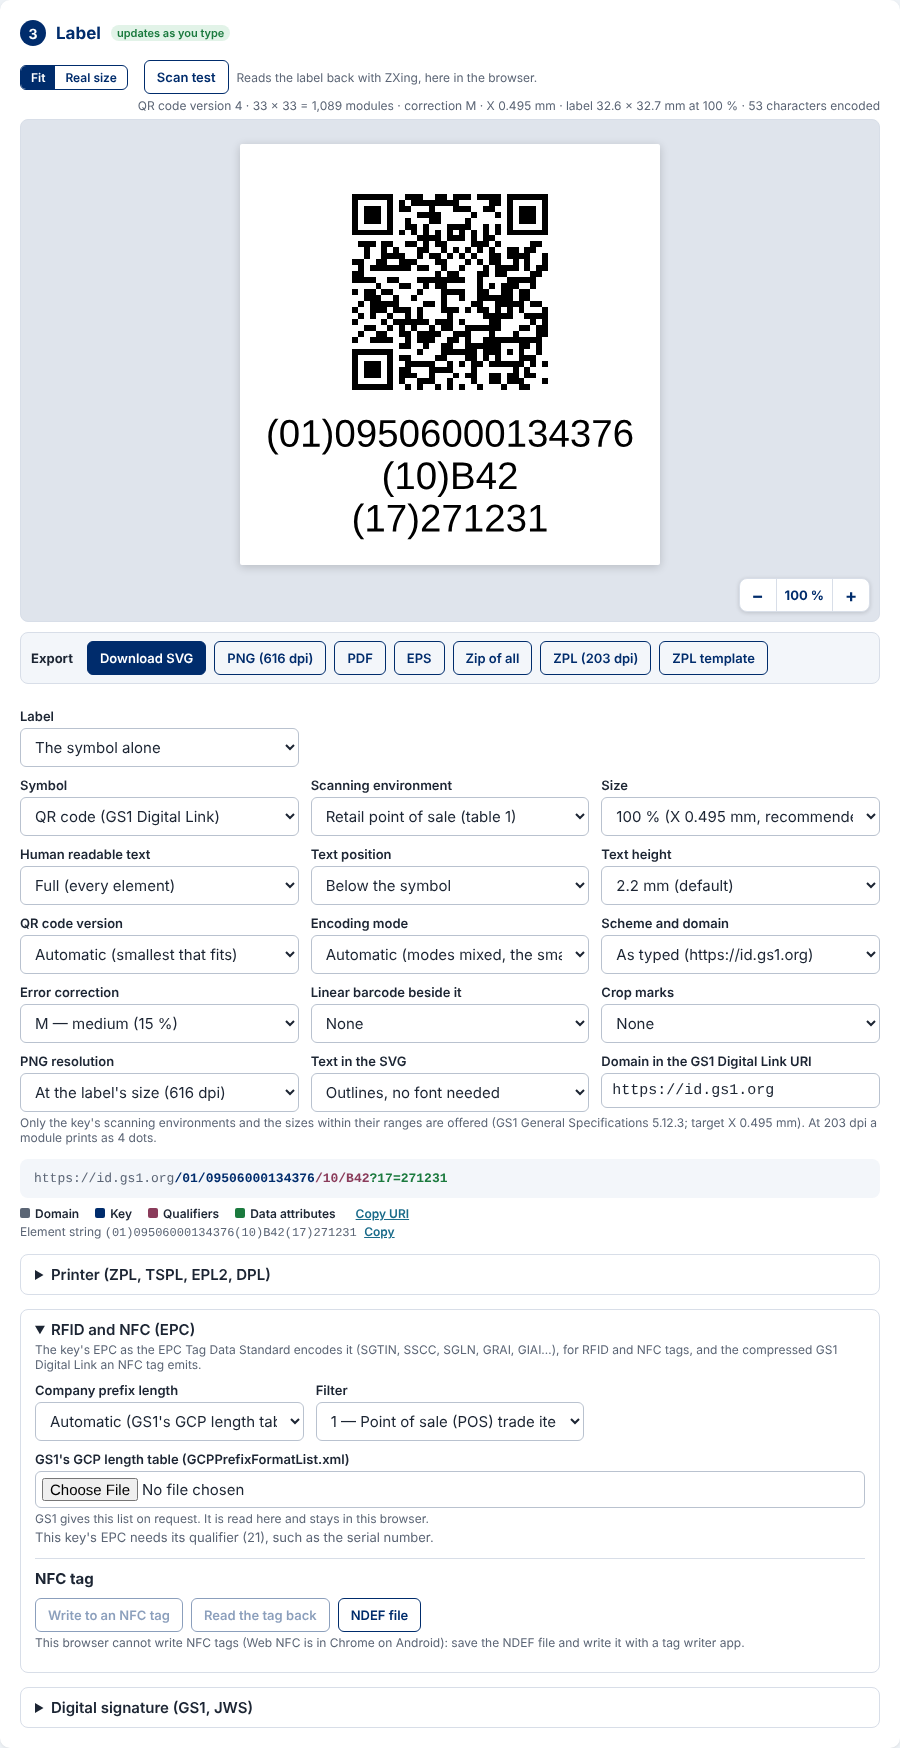
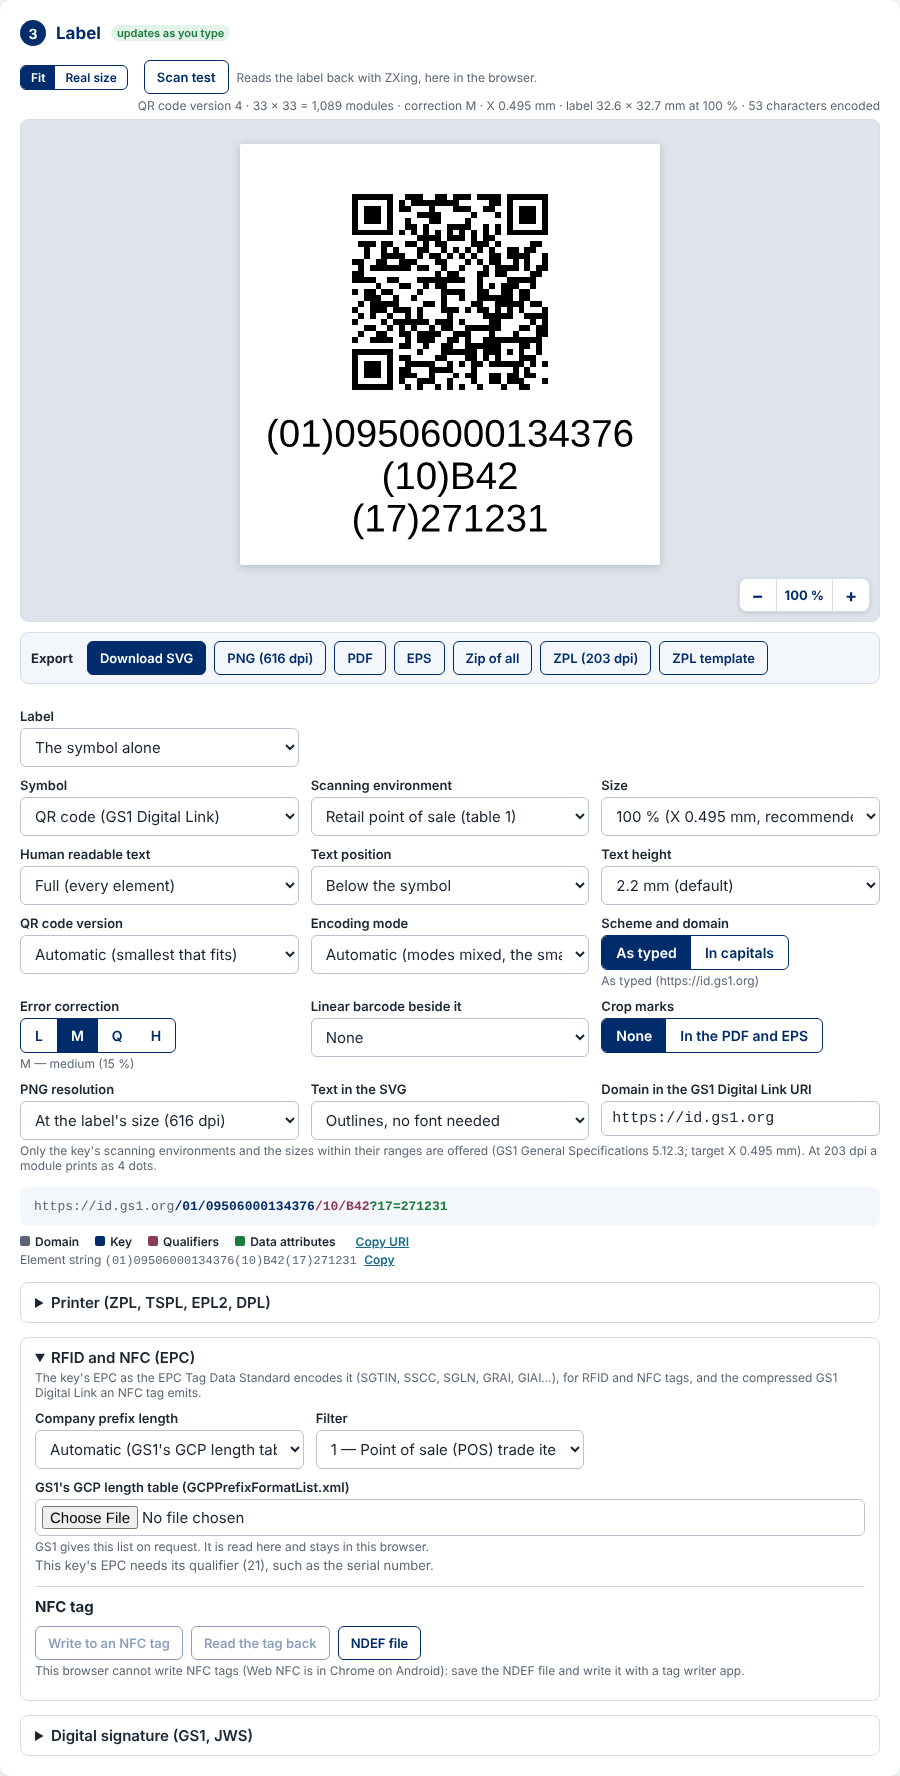
web, docs: the label's short choices as rows of buttons; sliders assessed and left out (1.10)
The owner asked whether the label's options with few choices should be sliders instead of lists, after a usability
assessment. Mock-ups in the real application (A: rows of buttons; B: sliders) showed that a slider suits an ordered
scale of evenly spaced values only: the sizes (80 to 200 %), text heights and bar width reductions are not evenly spaced
and change with the table, the error correction levels have four named steps, and the other short choices (text,
scheme and domain, crop marks, text in the SVG) have no order at all; the sliders also cut the options' names to fit.
The gain the request looks for, every option in view and one press to change it, comes from buttons instead.

Error correction (L, M, Q, H), Scheme and domain (As typed, In capitals) and Crop marks (None, In the PDF and EPS),
which fit one row on a computer's narrow column and on a phone, are now a Segmented control: a radio group whose
chosen option Tab reaches and the arrow keys move, the chosen option's full text said under it. The choices with longer
names or more options stay lists (Human readable text and Text in the SVG would wrap on a computer). Three short labels
in the five catalogues.

Tests: the crop marks test chooses them by their button and reads the chosen one in Portuguese; the QR modes test
chooses In capitals by its button, and presses H, then the left arrow to Q, the caption following and the focus kept.
[…]

diff --git a/apps/web/e2e/editor.spec.ts b/apps/web/e2e/editor.spec.ts
@@ -458,8 +458,9 @@ test("crop marks around the label in the PDF, the EPS and the zip, and around ev
   expect(plain).not.toContain("/TrimBox");
   const [, , w, h] = box(plain, "/MediaBox");
   await on(page, "label");
-  await expect(page.locator("#opt-crop")).toHaveValue("none");
-  await page.selectOption("#opt-crop", "marks");
+  await expect(page.locator("#opt-crop [aria-checked=true]")).toHaveText("None");
+  await page.locator("#opt-crop").getByRole("radio", { name: "In the PDF and EPS" }).click();
+  await expect(page.locator(".seg-field:has(#opt-crop) .hint")).toHaveText("In the PDF and EPS, on a 10 mm margin");
   await on(page, "export");
   const marked = readFileSync(await download(/^PDF$/)).toString("latin1");
   const media = box(marked, "/MediaBox");
@@ -480,8 +481,9 @@ test("crop marks around the label in the PDF, the EPS and the zip, and around ev
   await on(page, "more");
   await page.selectOption("#language", "pt-BR");
   await on(page, "label");
-  await expect(page.locator("label[for=opt-crop]")).toHaveText("Marcas de corte");
-  await expect(page.locator("#opt-crop option:checked")).toHaveText("No PDF e no EPS, numa margem de 10 mm");
+  await expect(page.locator("#opt-crop-label")).toHaveText("Marcas de corte");
+  await expect(page.getByRole("radiogroup", { name: "Marcas de corte" }).getByRole("radio", { checked: true })).toHaveText("No PDF e no EPS");
+  await expect(page.locator(".seg-field:has(#opt-crop) .hint")).toHaveText("No PDF e no EPS, numa margem de 10 mm");
   // In bulk: every page of the PDF of a label a page.
   await on(page, "data");
   await page.getByRole("button", { name: "Em lote" }).click();
@@ -1186,7 +1188,7 @@ test("QR Code's encoding mode: alphanumeric with the domain in capitals, byte; e
   await on(page, "label");
   await page.selectOption("#opt-qr-mode", "alphanumeric");
   await expect(page.locator(".preview .error")).toContainText("alphanumeric mode cannot encode “h”");
-  await page.selectOption("#opt-qr-upper", "upper");
+  await page.getByRole("radiogroup", { name: "Scheme and domain" }).getByRole("radio", { name: "In capitals" }).click();
   await expect(page.locator(".preview .error")).toContainText("cannot encode “?”"); // the query string of (17)
   await on(page, "data");
   await page.locator(".attr").nth(1).getByRole("button", { name: "Remove attribute" }).click();
@@ -1201,6 +1203,19 @@ test("QR Code's encoding mode: alphanumeric with the domain in capitals, byte; e
   await on(page, "export");
   await page.getByRole("button", { name: "ZPL (203 dpi)" }).click();
   await expect(page.locator(".error.small")).toContainText("ZPL writes the QR code in the printer's automatic mode");
+  // The error correction as buttons in a row (the owner's request of 10 November 2026): a press, or the arrow keys on
+  // the chosen one, changes it; its full name said under them
+  await on(page, "label");
+  const levels = page.getByRole("radiogroup", { name: "Error correction" });
+  await expect(levels.getByRole("radio")).toHaveText(["L", "M", "Q", "H"]);
+  await expect(page.locator(".seg-field:has(#opt-ecl) .hint")).toHaveText("M — medium (15 %)");
+  await levels.getByRole("radio", { name: "H" }).click();
+  await expect(page.locator(".caption")).toContainText("correction H");
+  await levels.getByRole("radio", { checked: true }).press("ArrowLeft");
+  await expect(levels.getByRole("radio", { checked: true })).toHaveText("Q");
+  await expect(levels.getByRole("radio", { checked: true })).toBeFocused();
+  await expect(page.locator(".caption")).toContainText("correction Q");
+  await expect(page.locator(".seg-field:has(#opt-ecl) .hint")).toHaveText("Q — quartile (25 %)");
 });
 
 // Item 1.18 (mock-up A of two, 31 October 2026): a JWS of the code's data, a security marking's code read from the marking.

diff --git a/apps/web/src/LabelCard.tsx b/apps/web/src/LabelCard.tsx
@@ -29,6 +29,7 @@ import { keepGuides, keptGuides } from "./guides.ts";
 import { Calibration, keptScale, RealSizeView } from "./RealSize.tsx";
 import type { SymbolSizing } from "./resize.ts";
 import { scanSvg } from "./scan.ts";
+import { Segmented } from "./Segmented.tsx";
 import {
   BEARER_CHOICES,
   ENVIRONMENT_NAMES,
@@ -599,23 +600,23 @@ export function LabelCard({ children, generate, printer, printLanguage, settings
                       ))}
                     </select>
                   </div>
-                  <div>
-                    <label htmlFor="opt-qr-upper">{t("Scheme and domain")}</label>
-                    <select id="opt-qr-upper" value={s.qrUpperDomain ? "upper" : "as"} onChange={(e) => set("qrUpperDomain", e.target.value === "upper")}>
-                      <option value="as">{t("As typed (https://id.gs1.org)")}</option>
-                      <option value="upper">{t("In capitals (HTTPS://ID.GS1.ORG)")}</option>
-                    </select>
-                  </div>
-                  <div>
-                    <label htmlFor="opt-ecl">{t("Error correction")}</label>
-                    <select id="opt-ecl" value={s.error} onChange={(e) => set("error", e.target.value as ErrorLevel)}>
-                      {ERROR_LEVELS.map((level) => (
-                        <option key={level} value={level}>
-                          {t(ERROR_NAMES[level])}
-                        </option>
-                      ))}
-                    </select>
-                  </div>
+                  <Segmented
+                    id="opt-qr-upper"
+                    label={t("Scheme and domain")}
+                    value={s.qrUpperDomain ? "upper" : "as"}
+                    options={[
+                      { value: "as", text: t("As typed"), detail: t("As typed (https://id.gs1.org)") },
+                      { value: "upper", text: t("In capitals"), detail: t("In capitals (HTTPS://ID.GS1.ORG)") },
+                    ]}
+                    onChange={(value) => set("qrUpperDomain", value === "upper")}
+                  />
+                  <Segmented
+                    id="opt-ecl"
+                    label={t("Error correction")}
+                    value={s.error}
+                    options={ERROR_LEVELS.map((level) => ({ value: level, text: level.toUpperCase(), detail: t(ERROR_NAMES[level]) }))}
+                    onChange={(value) => set("error", value as ErrorLevel)}
+                  />
                 </>
               )}
               {(view.linearPossible || (view.guided && view.twoD && s.linear !== "none")) && (
@@ -663,13 +664,16 @@ export function LabelCard({ children, generate, printer, printLanguage, settings
                   </select>
                 </div>
               )}
-              <div>
-                <label htmlFor="opt-crop">{t("Crop marks")}</label>
-                <select id="opt-crop" value={s.cropMarks ? "marks" : "none"} onChange={(e) => set("cropMarks", e.target.value === "marks")}>
-                  <option value="none">{t("None")}</option>
-                  <option value="marks">{t("In the PDF and EPS, on a 10 mm margin")}</option>
-                </select>
-              </div>
+              <Segmented
+                id="opt-crop"
+                label={t("Crop marks")}
+                value={s.cropMarks ? "marks" : "none"}
+                options={[
+                  { value: "none", text: t("None") },
+                  { value: "marks", text: t("In the PDF and EPS"), detail: t("In the PDF and EPS, on a 10 mm margin") },
+                ]}
+                onChange={(value) => set("cropMarks", value === "marks")}
+              />
               <div>
                 <label htmlFor="opt-png">{t("PNG resolution")}</label>
                 <select

diff --git a/apps/web/src/Segmented.tsx b/apps/web/src/Segmented.tsx
@@ -1,0 +1,61 @@
+import { useRef, type KeyboardEvent } from "react";
+
+// A choice of two to four short options as buttons in a row (the owner's request of 10 November 2026, mock-up A of
+// two: B put sliders in their place, which suit an ordered scale only and cut the options' names): every option in
+// view and one press to change it, where a list needed two. A radio group for assistive technology: Tab reaches the
+// chosen option, the arrow keys move the choice. The chosen option's full text is said under it.
+
+export interface SegmentedOption<T extends string> {
+  value: T;
+  /** The button's text: a word or two. */
+  text: string;
+  /** The option's full text, said under the buttons once it is chosen and given to the button as its title. */
+  detail?: string;
+}
+
+interface Props<T extends string> {
+  id: string;
+  label: string;
+  value: T;
+  options: readonly SegmentedOption<T>[];
+  onChange: (value: T) => void;
+}
+
+export function Segmented<T extends string>({ id, label, value, options, onChange }: Props<T>) {
+  const group = useRef<HTMLDivElement>(null);
+  const chosen = options.find((option) => option.value === value);
+
+  const onKeyDown = (event: KeyboardEvent<HTMLButtonElement>, index: number) => {
+    const by = event.key === "ArrowRight" || event.key === "ArrowDown" ? 1 : event.key === "ArrowLeft" || event.key === "ArrowUp" ? -1 : 0;
+    if (!by) return;
+    event.preventDefault();
+    const next = (index + by + options.length) % options.length;
+    onChange(options[next]!.value);
+    group.current?.querySelectorAll<HTMLButtonElement>("button")[next]?.focus();
+  };
+
+  return (
+    <div className="seg-field">
+      <span className="seg-label" id={`${id}-label`}>
+        {label}
+      </span>
+      <div className="seg" role="radiogroup" id={id} aria-labelledby={`${id}-label`} ref={group}>
+        {options.map((option, index) => (
+          <button
+            key={option.value}
+            type="button"
+            role="radio"
+            aria-checked={option.value === value}
+            tabIndex={option.value === value ? 0 : -1}
+            title={option.detail}
+            onClick={() => onChange(option.value)}
+            onKeyDown={(event) => onKeyDown(event, index)}
+          >
+            {option.text}
+          </button>
+        ))}
+      </div>
+      {chosen?.detail && <div className="hint">{chosen.detail}</div>}
+    </div>
+  );
+}

diff --git a/apps/web/src/styles.css b/apps/web/src/styles.css
@@ -162,6 +162,12 @@ details.epc summary, details.sign summary, details.printer summary { font-weight
 .seg { display: inline-flex; border: 1.5px solid var(--navy); border-radius: 6px; overflow: hidden; }
 .seg button { border: 0; background: transparent; color: var(--navy); font: inherit; font-size: 12px; font-weight: 600; padding: 4px 10px; cursor: pointer; }
 .seg button[aria-pressed="true"] { background: var(--navy); color: var(--card); }
+/* A short choice among the label's options as buttons in a row (Segmented.tsx), as tall as a list beside it */
+.seg-label { display: block; font-size: 13px; font-weight: 600; margin: 10px 0 4px; }
+.seg-field .seg { display: flex; flex-wrap: wrap; width: max-content; max-width: 100%; }
+.seg-field .seg button { font-size: 14px; padding: 8px 14px; }
+.seg button[aria-checked="true"] { background: var(--navy); color: var(--card); }
+.seg-field .seg button:focus-visible { outline: 2px solid var(--focus, #1a73e8); outline-offset: -3px; }
 .real { display: grid; grid-template-columns: 18px auto; grid-template-rows: 18px auto; justify-content: start; overflow: auto; max-height: 70vh; background: #fff; border: 1px solid var(--line); border-radius: 8px; padding: 6px; }
 .real .symbol svg { width: 100%; height: 100%; display: block; }
 .ruler { display: block; stroke: #5b6575; fill: #5b6575; font-size: 8px; }

diff --git a/docs/user-guide.md b/docs/user-guide.md
@@ -383,7 +383,8 @@ or QR code is refused there (Labelize does not turn them).
 
 ## 6. The label's options
 
-Only the choices that apply to the symbol are shown.
+Only the choices that apply to the symbol are shown. A choice of two to four short options is a row of buttons (press
+one, or use the arrow keys on the chosen one); a longer choice is a list.
 
 | Option | What it does |
 |---|---|
@@ -395,12 +396,12 @@ Only the choices that apply to the symbol are shown.
 | Text height | From 2.0 mm (the minimum) to 5.0 mm; 2.2 mm by default; 3.0 mm is what the GS1 Logistic Label asks |
 | QR code version | Automatic (the smallest that fits) or 1 to 40; refused when the data does not fit |
 | Encoding mode | QR code: automatic (modes mixed, the smallest symbol), or numeric, alphanumeric or byte for the whole data; a character the mode cannot take is named |
-| Scheme and domain | As typed, or in capitals (`HTTPS://ID.GS1.ORG`), which lets alphanumeric mode encode the URI's start; the path and the query stay as typed |
-| Error correction | QR code: L (7 %), M (15 %), Q (25 %), H (30 %) |
+| Scheme and domain | Two buttons: As typed, or In capitals (`HTTPS://ID.GS1.ORG`), which lets alphanumeric mode encode the URI's start; the path and the query stay as typed |
+| Error correction | QR code: four buttons, L (7 %), M (15 %), Q (25 %), H (30 %), the chosen level's name under them |
 | Linear barcode beside it | An EAN-13, UPC-A or EAN-8 as the GTIN takes, or UPC-E, beside a 2D symbol |
 | Bearer bars | ITF-14: a frame (suits every printing method) or bars of 2X at the top and bottom |
 | Bar width reduction | Linear symbols: 0.010 to 0.050 mm taken off every bar, for printing that spreads ink |
-| Crop marks | None, or marks at the label's corners in the PDF and EPS, on a page 10 mm larger on every side, for a label cut from a larger sheet (the [printing guide](printing-guide.md#2-artwork-and-prepress-svg-pdf-eps)) |
+| Crop marks | Two buttons: None, or In the PDF and EPS, marks at the label's corners in the PDF and EPS, on a page 10 mm larger on every side, for a label cut from a larger sheet (the [printing guide](printing-guide.md#2-artwork-and-prepress-svg-pdf-eps)) |
 | PNG resolution | At the label's size (12 pixels a module), or 300, 600 or 1200 dpi with a whole number of pixels a module, the X-dimension it prints at said; for the PNG on its own and in the zip |
 | Text in the SVG | Outlines (no font needed) or real text, editable but needing Liberation Sans and OCR-B where it is printed |
 | Domain in the GS1 Digital Link URI | `https://id.gs1.org` by default; your resolver's domain |

diff --git a/docs/features.md b/docs/features.md
@@ -101,6 +101,7 @@ Which standard each follows: [conformance](conformance.md).
 |---|---|---|---|
 | Live preview | The label redrawn as anything changes, beside the identification | `87a745d` | `editor`: qualifiers and a decimal attribute go into the URI as typed |
 | The label's own area | Step 3 across the screen: the canvas with its tools over it, the Export bar below, the options under them | `9aa4493` | `editor`: the label in its own area across step 3 |
+| Short choices as buttons | Error correction, Scheme and domain and Crop marks as a row of buttons (mock-up A of two, the owner's request of 10 November 2026: B put sliders in place of the short lists, which suit an ordered scale only and cut the options' names): every option in view, one press to change it, the arrow keys on the chosen one; a radio group for screen readers; the chosen option's full text under it; the longer lists stay lists | — | `editor`: QR Code's encoding mode · `editor`: crop marks around the label |
 | Zoom | − and + from 25 % to 400 %, back to 100 % on a click or a change of view | `3e860d0` | `editor`: zoom in and out on the label's canvas |
 | The caption's counts | The modules (rows × columns, or the width) and the characters encoded, FNC1 and group separators included | `430cea3` | `syntax`: counts an element string's FNC1 · `editor`: the caption counts the modules |
 | Real size | 1:1 between rulers in millimetres | `fafb40f` | `editor`: at real size the label is drawn between rulers |

diff --git a/README.md b/README.md
@@ -322,7 +322,10 @@ Engine's releases (0.6, 8 November), then the crop marks 1.5 had left for later,
   calibration (1.6) usable at its whole range: the bar outgrows the options column near the slider's maximum, so it
   cannot be measured, and the slider is coarse — the bar where there is room, and a fine adjustment — *done 30 October:
   the calibration spans the label's card, its slider stops where the bar still fits (7 pixels a millimetre on a
-  computer, less on a phone), and − and + move the bar by about half a pixel*
+  computer, less on a phone), and − and + move the bar by about half a pixel*; (d) sliders for the label's short
+  choices (the owner, 10 November 2026) — *assessed with mock-ups and left out (a slider suits an evenly spaced scale,
+  and the categorical choices have no order); instead Error correction, Scheme and domain and Crop marks became rows of
+  buttons (mock-up A of two), the longer choices staying lists*
 - 1.11 Every identifier and qualifier: every GS1 key the dictionary has (the 16 GS1 Digital Link primary keys are
   offered today) and every qualifier of each, from the current GS1 Digital Link URI syntax; the four main qualifiers
   on the screen and the rest behind "+ Add qualifier", as the attributes are; checked against the GS1 General

diff --git a/CHANGELOG.md b/CHANGELOG.md
@@ -388,6 +388,11 @@
 - A qualifier typed by its AI stays in the list (10 November; the owner's report): typing 21 in an AI field made the row
   (21) as it was typed, and the list then left out (21) as given already, offering (321n), (421), (4321) and (7021)
   instead. A row's list now leaves out only the qualifiers given on other rows.
+- Short choices as buttons (10 November; the owner's request, mock-up A of two): Error correction (L, M, Q, H), Scheme
+  and domain (As typed, In capitals) and Crop marks (None, In the PDF and EPS) are a row of buttons, the chosen
+  option's full text under them, the arrow keys moving the choice. Sliders, the request, were assessed and left out:
+  they suit an ordered scale of evenly spaced values only, the sizes (80 to 200 %) and text heights are not evenly
+  spaced and change with the table, and the categorical choices have no order; the longer lists stay lists.
 - Documentation brought up to date (8 November): the README's languages badge (six), test count, status, a tour stop
   for the designer and the GS1 Logistic Label, where the backlog stands, item 4.2 as dated sub-items, the development
   commands and workflows; the history from session 10 to 44; the documents' index, the user guide's summary,

diff --git a/docs/history.md b/docs/history.md
@@ -374,3 +374,9 @@ URI's path needs. An element string has no such order, and a variable-length AI 
 FNC1 after it. The rows' order, qualifiers included, is now the element string's in every symbol that carries one and in
 its text; the URI, and the text under its symbol, keep the URI's order. A pasted element string keeps its order, and in
 bulk the columns' order is the element string's. Thirteen unit mutations and one browser mutation were caught.
+
+On 10 November the owner's comments on the new test plan brought three small fixes to the AI fields (the list closing
+on Escape when opened from its arrow, a chosen name edited anywhere, a qualifier typed by its AI kept in its own list)
+and a request to put sliders in place of the short lists among the label's options. Mock-ups of both showed sliders
+cutting the options' names and implying an order the categorical choices do not have; the three choices of two to four
+short options became rows of buttons instead, the longer ones staying lists.
